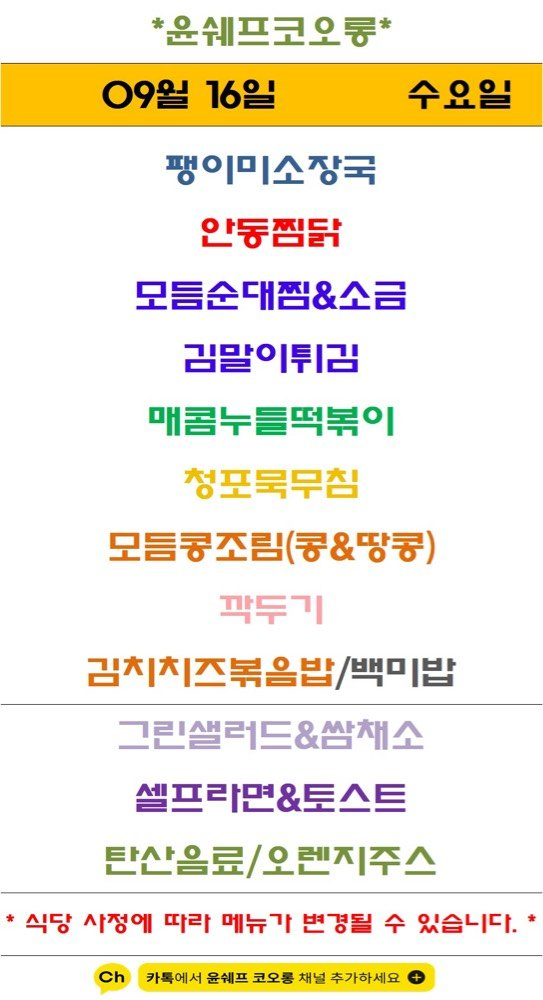
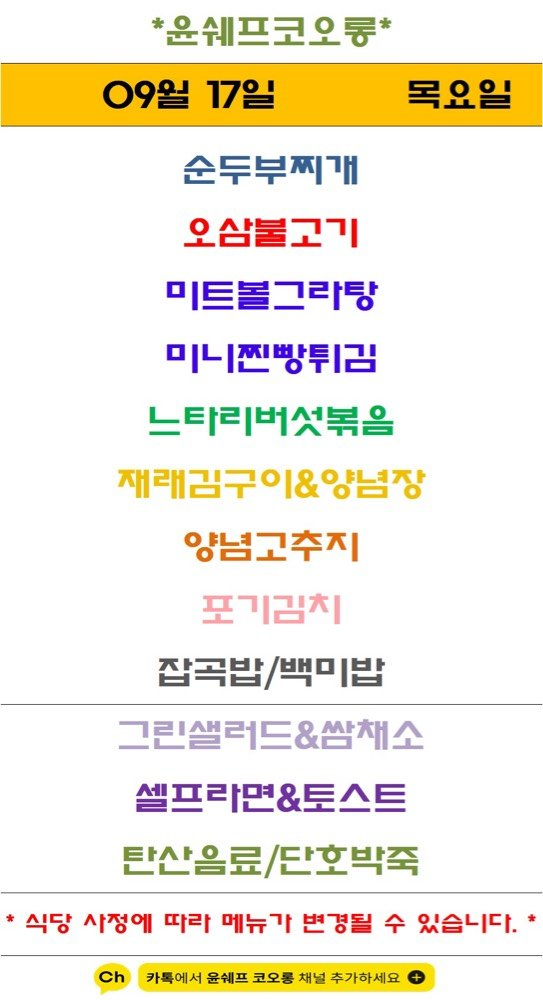
Update menu board assets

diff --git a/guro-menu/index.html b/guro-menu/index.html
@@ -32,7 +32,7 @@
   </header>
   <section class="meta">
     <div><small>기준 날짜</small><strong>2026년 9월 17일 목요일</strong></div>
-    <div><small>최종 갱신</small><strong>2026-09-17 09:03:11</strong></div>
+    <div><small>최종 갱신</small><strong>2026-09-17 09:13:09</strong></div>
     <div><small>등록 식당</small><strong>5개</strong></div>
   </section>
   <div class="notice">공개 카카오 채널의 메뉴 이미지를 자동 수집하고 OCR로 정리합니다. 텍스트에 오타가 있을 수 있으니 식단 이미지를 함께 확인해 주세요.</div>
@@ -103,8 +103,8 @@
           <a class="channel" href="https://pf.kakao.com/_Xxhxkhs" target="_blank" rel="noopener">원본 채널</a>
         </div>
         <img class="menu-image" src="./images/yoon-chef-kolon.png" alt="윤쉐프 코오롱 식단 이미지" loading="lazy">
-        <p class="message">최신 공개 식단 이미지의 텍스트입니다. 날짜는 원본 이미지를 확인해 주세요.</p>
-        <ul><li>팽이미소장국</li><li>모듬순대찜&amp;소금</li><li>리말이튀김</li><li>매콤누들떡볶이</li><li>모듬콩조림(콩&amp;땅콩)</li><li>러지지즈볶음밥/백미밥</li><li>그린샐러드&amp;쌈재소</li><li>셀프라면&amp;토스트</li><li>탄산음료/오렌지주스</li></ul>
+        
+        <ul><li>순두부찌개</li><li>오삼불고기</li><li>미트볼그라탕</li><li>느타리버섯볶음</li><li>양념고주지</li><li>잡곡밥/백미밥</li><li>그린설러드&amp;쌈채소</li><li>셀프라면&amp;토스트</li><li>탄산옴료/단호박죽</li></ul>
       </article>
   </section>
   <section class="seo" aria-label="검색 정보">한신IT타워 구내식당 자연푸드 구내식당 더이츠푸드 벽산더이룸 윤쉐프 코오롱 한신IT타워 벽산디지털밸리7차 대륭포스트타워1차 벽산디지털밸리1차 코오롱싸이언스밸리1차 서울 구로구 디지털로 272 한신IT타워 지하1층 서울 구로구 디지털로33길 50 벽산디지털밸리7차 지하1층 서울 구로구 디지털로 288 대륭포스트타워1차 지하1층 서울 구로구 디지털로27길 24 벽산디지털밸리1차 지하1층 서울 구로구 디지털로34길 43 코오롱싸이언스밸리1차 지하1층</section>

diff --git a/menu-today/index.html b/menu-today/index.html
@@ -209,7 +209,7 @@
 
     <section class="meta-bar">
       <div class="meta-card"><div class="meta-label">기준 날짜</div><div class="meta-value">2026년 9월 17일 목요일</div></div>
-      <div class="meta-card"><div class="meta-label">최종 가져온 시간</div><div class="meta-value">2026-09-17 09:02:58</div></div>
+      <div class="meta-card"><div class="meta-label">최종 가져온 시간</div><div class="meta-value">2026-09-17 09:12:54</div></div>
       <div class="meta-card"><div class="meta-label">확인 완료</div><div class="meta-value">9개 식당</div></div>
       <div class="meta-card"><div class="meta-label">준비중</div><div class="meta-value">3개 채널</div></div>
     </section>
@@ -295,7 +295,7 @@
             <div class="sub">에이스테크노타워10차</div>
           </div>
         </div>
-        <div class="menu-inline-image"><img src="./images/thefoodsketch.png" alt="더푸드스케치 식단 이미지"></div><ul><li>콩나물해장국</li><li>등갈비김치찜</li><li>갈비살파스텔</li><li>= 해물누릉지탕</li><li>Lu 온두부</li><li>라우겐번</li><li>브츠건정이</li><li>가든샐러드 &amp; 드레싱</li><li>더푸드스케치</li><li>mu 온합잡곡밥</li></ul>
+        <div class="menu-inline-image"><img src="./images/thefoodsketch.png" alt="더푸드스케치 식단 이미지"></div><ul><li>콩나물해장국</li><li>등갈비김치찜</li><li>갈비살파스텔</li><li>= 해물누릉지탕</li><li>Lu 온두부</li><li>라우겐번</li><li>브츠건정이</li><li>가든샐러드 / 드레싱</li><li>더푸드스케치</li><li>mu 온합잡곡밥</li></ul>
       </article>
 
       <article class="restaurant-card">
